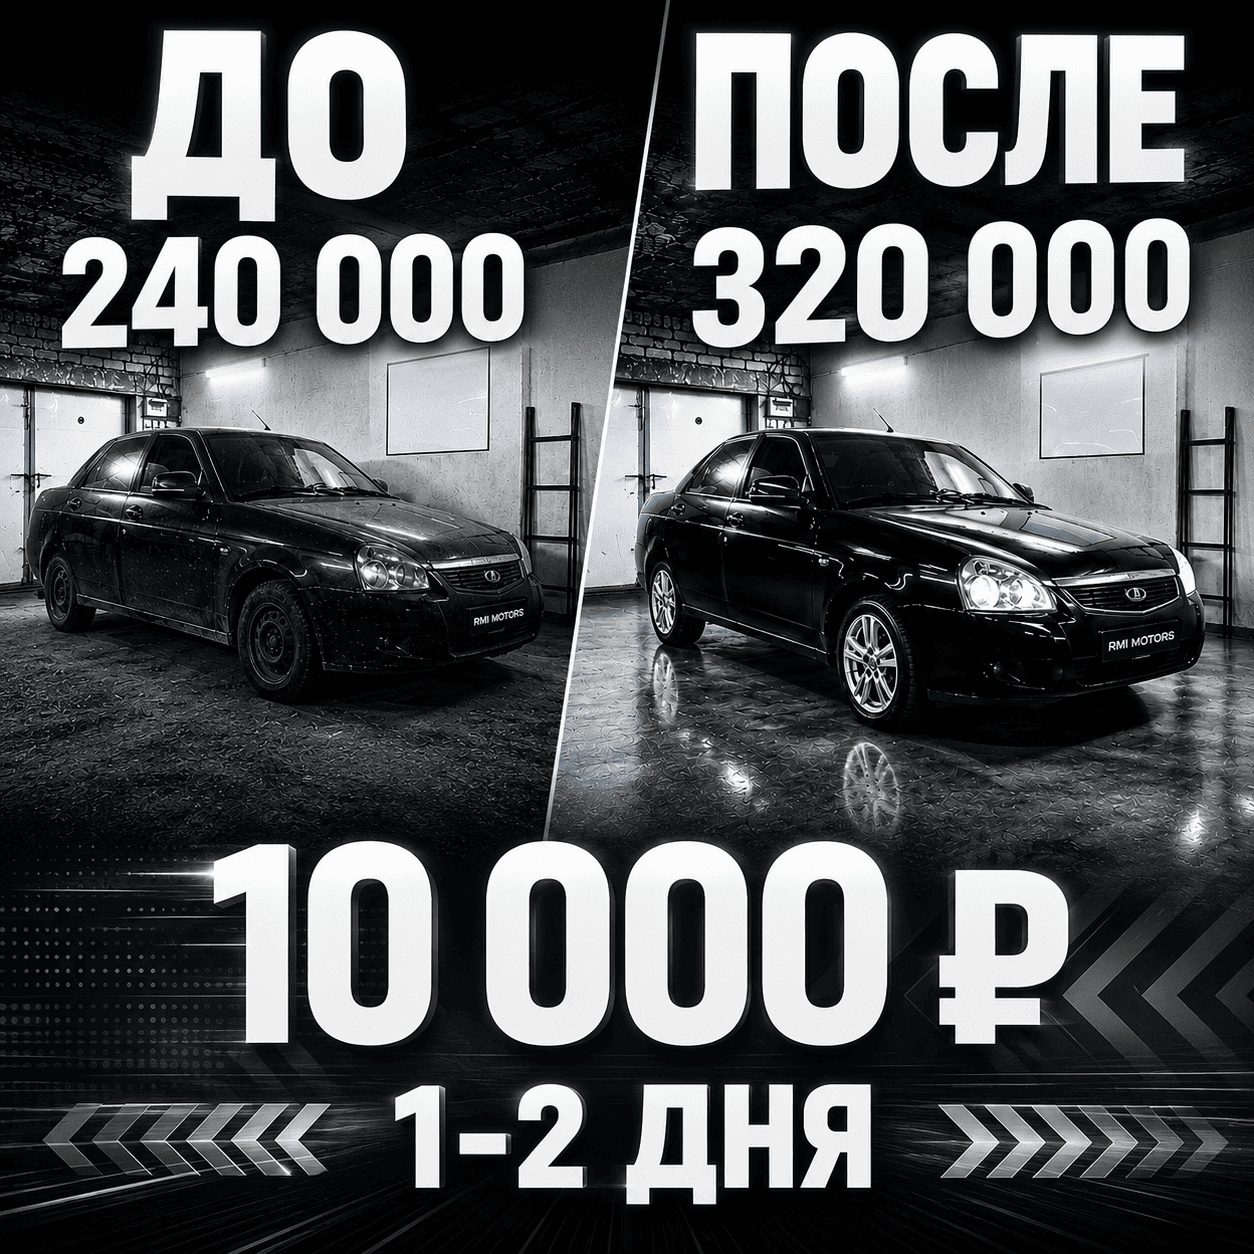
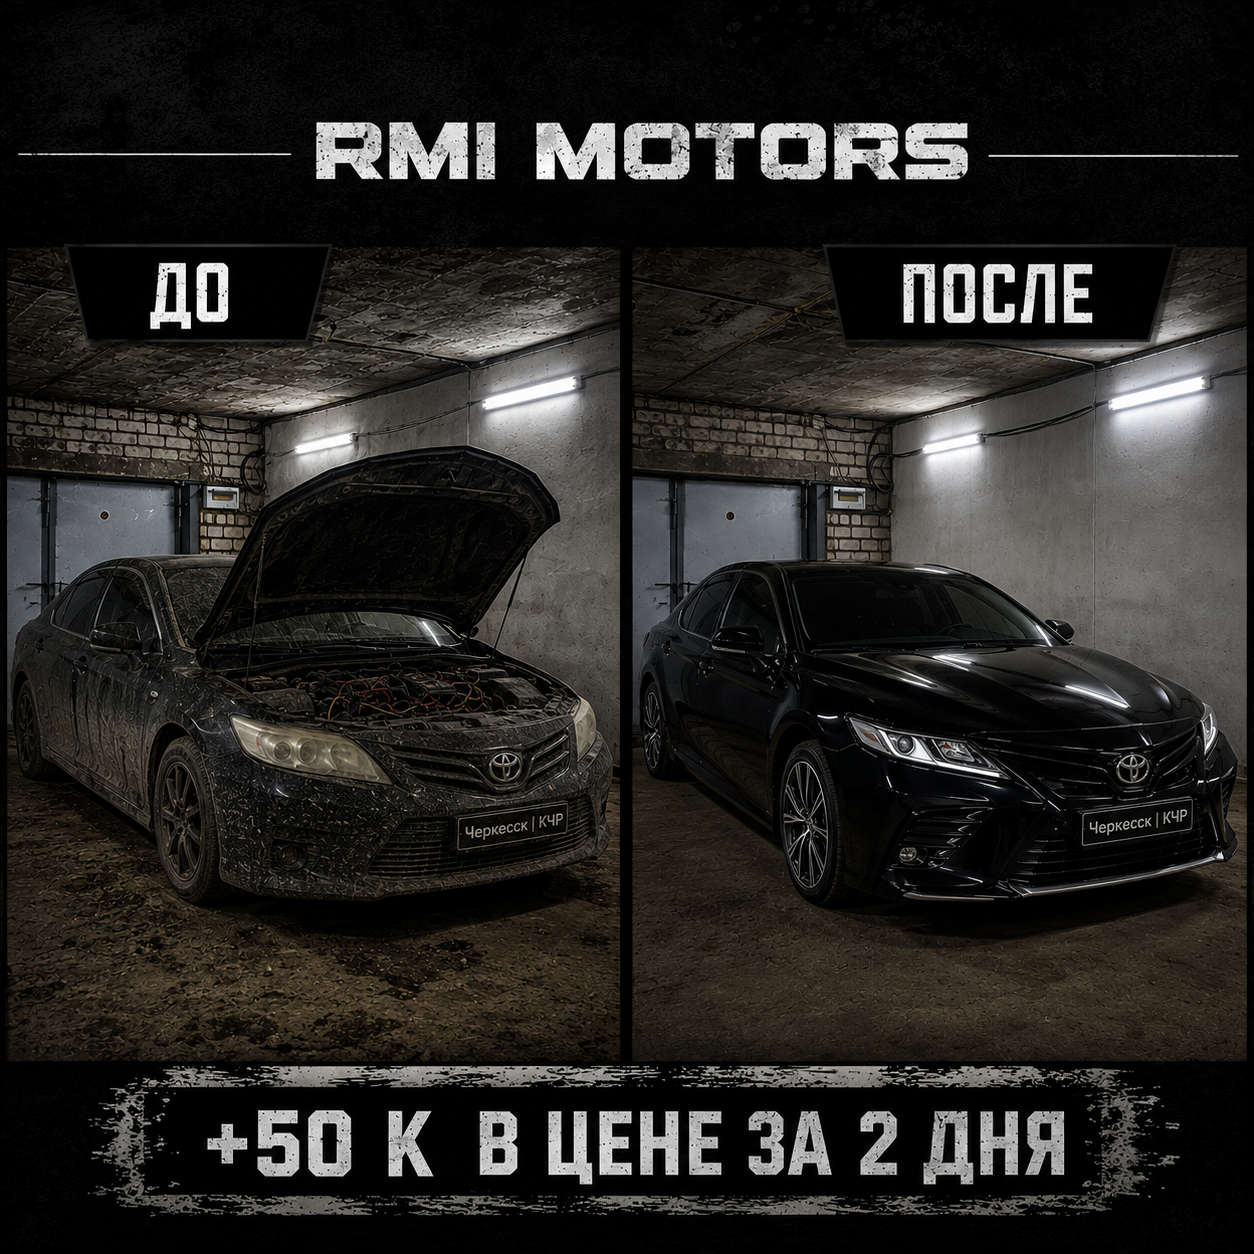
done

diff --git a/index.html b/index.html
@@ -144,6 +144,30 @@
             padding-left: 25px;
         }
 
+        .benefit-icon,
+        .service-icon {
+            display: flex;
+            align-items: center;
+            justify-content: flex-start;
+            width: 68px;
+            height: 68px;
+            margin-bottom: 22px;
+            color: #000;
+        }
+
+        .benefit-icon svg,
+        .service-icon svg {
+            width: 68px;
+            height: 68px;
+            display: block;
+            overflow: visible;
+        }
+
+        .benefit-icon svg *,
+        .service-icon svg * {
+            vector-effect: non-scaling-stroke;
+        }
+
         .benefit-title {
             font-size: 1.8rem;
             font-weight: 600;
@@ -192,11 +216,16 @@
         }
 
         .service-category {
-            border-top: 3px solid #000;
-            padding-top: 20px;
+            border-top: 2px solid #000;
+            padding-top: 24px;
+            display: flex;
+            justify-content: start;
+            align-items: center;
+            flex-direction: column;
         }
 
         .service-category h3 {
+            text-align: center;
             font-size: 1.8rem;
             font-weight: 600;
             margin-bottom: 18px;
@@ -502,7 +531,7 @@
             <br>
 
             <!-- H1 заголовок -->
-            <h1 style="margin-top: 25px;"> За 1–2 дня <br> увеличим стоимость вашего авто <br>для продажи <br><br></h1>
+            <h1 style="margin-top: 25px;"> За 2 дня <br> увеличим стоимость <br> вашего авто для продажи <br><br></h1>
 
             <!-- Подзаголовок -->
             <div class="subhead">
@@ -530,25 +559,52 @@
                 alt="Описание картинки"
             >
 
-            <!-- Список услуг — 4 направления (блоки) -->
+            <!-- Список услуг — 3 направления (блоки) -->
             <div class="services-panel">
                 <div class="service-category">
-                    <h3>Оптика и кузов: полировка фар и удаление сколов</h3>
+                    <div class="service-icon" aria-hidden="true">
+                        <svg viewBox="0 0 64 64" fill="none"
+                             xmlns="http://www.w3.org/2000/svg">
+                            <path d="M7 36L14 24C17 19 23 16 31 16H43L56 27V39H7V36Z"
+                                  stroke="currentColor" stroke-width="2.5"
+                                  stroke-linejoin="round"/>
+                            <path d="M17 35L23 25H42L51 35H17Z"
+                                  stroke="currentColor" stroke-width="2.5"
+                                  stroke-linejoin="round"/>
+                            <path d="M31 7V12M44 11L41 16M53 20L48 22"
+                                  stroke="currentColor" stroke-width="2.5"
+                                  stroke-linecap="round"/>
+                            <path d="M10 45H54"
+                                  stroke="currentColor" stroke-width="2.5"
+                                  stroke-linecap="round"/>
+                        </svg>
+                    </div>
+                    <h3>Полировка фар и удаление сколов</h3>
                     <ul class="service-list">
                         <li>Полировка фар Черкесск: убираем «катаракту», мутность и улучшаем внешний вид перед продажей</li>
-                        <li>Удаление сколов без покраски и ремонт сколов авто (локально, без полной перекраски детали)</li>
-                        <li>Покраска сколов авто КЧР при необходимости локального подкраса в цвет</li>
+                        <li>Удаление сколов без покраски и локальное замазывание сколов</li>
                     </ul>
                 </div>
                 <div class="service-category">
-                    <h3>Детейлинг авто и химчистка салона в Черкесске</h3>
-                    <ul class="service-list">
-                        <li>Химчистка салона Черкесск: глубокая очистка сидений, потолка, пола и багажника</li>
-                        <li>Детейлинг авто: прочистка системы вентиляции салона и химическая очистка воздуховодов</li>
-                        <li>Освежение салона и устранение скрипов пластика для аккуратной продажи автомобиля</li>
-                    </ul>
-                </div>
-                <div class="service-category">
+                    <div class="service-icon" aria-hidden="true">
+                        <svg viewBox="0 0 64 64" fill="none"
+                             xmlns="http://www.w3.org/2000/svg">
+                            <path d="M12 40L16 25C17 21 20 18 25 18H39C44 18 47 21 48 25L52 40V48H12V40Z"
+                                  stroke="currentColor" stroke-width="2.5"
+                                  stroke-linejoin="round"/>
+                            <path d="M17 36H47M20 26H44"
+                                  stroke="currentColor" stroke-width="2.5"
+                                  stroke-linecap="round"/>
+                            <path d="M12 40H7V45H12M52 40H57V45H52"
+                                  stroke="currentColor" stroke-width="2.5"
+                                  stroke-linejoin="round"/>
+                            <circle cx="20" cy="43" r="2" fill="currentColor"/>
+                            <circle cx="44" cy="43" r="2" fill="currentColor"/>
+                            <path d="M27 11L31 15L39 7"
+                                  stroke="currentColor" stroke-width="2.5"
+                                  stroke-linecap="round" stroke-linejoin="round"/>
+                        </svg>
+                    </div>
                     <h3>Предпродажная подготовка автомобиля в Черкесске</h3>
                     <ul class="service-list">
                         <li>Подготовка авто к продаже в Черкесске: подкапотная эстетика, штатная гофра, аккуратная проводка и клипсы</li>
@@ -557,40 +613,99 @@
                     </ul>
                 </div>
                 <div class="service-category">
+                    <div class="service-icon" aria-hidden="true">
+                        <svg viewBox="0 0 64 64" fill="none"
+                             xmlns="http://www.w3.org/2000/svg">
+                            <path d="M39 10C45 7 52 10 54 16L44 26L38 20L28 30L34 36L44 26L54 36L34 56L24 46L34 36"
+                                  stroke="currentColor" stroke-width="2.5"
+                                  stroke-linecap="round" stroke-linejoin="round"/>
+                            <path d="M24 46L14 56"
+                                  stroke="currentColor" stroke-width="2.5"
+                                  stroke-linecap="round"/>
+                            <path d="M10 12L20 22M20 12L10 22"
+                                  stroke="currentColor" stroke-width="2.5"
+                                  stroke-linecap="round"/>
+                        </svg>
+                    </div>
                     <h3>Мелкий ремонт перед продажей</h3>
                     <ul class="service-list">
                         <li>Протяжка креплений, устранение люфтов и мелких замечаний по кузову и салону</li>
                         <li>Локальная подварка (точечно, где это критично для осмотра и безопасной эксплуатации)</li>
-                        <li>Комплексная предпродажная подготовка автомобиля и подготовка авто к продаже за 1-2 дня</li>
                     </ul>
                 </div>
             </div>
 
             <!-- Блок с комплексной ценой (белый на чёрном) -->
             <div style="background: #000; color: #fff; padding: 50px 40px; margin: 30px 0; text-align: center; width: 100%;">
-                <div style="font-size: 1rem; letter-spacing: 5px; text-transform: uppercase; margin-bottom: 20px; color: rgba(255,255,255,0.7);">комплекс от</div>
-                <div style="font-size: 4rem; font-weight: 700; line-height: 1; letter-spacing: -3px; margin-bottom: 25px;">10 000 <span style="font-size: 2rem; font-weight: 300; color: rgba(255,255,255,0.6);">₽</span></div>
-                <div style="font-size: 1.1rem; line-height: 1.8; color: rgba(255,255,255,0.85);">
-                    Мойка кузова | Полировка оптики | Локальное устранение косяков<br>
-                    <span style="font-weight: 600; color: #fff; margin-top: 8px; display: inline-block;">уже включены в стоимость</span>
-                </div>
+                <div style="font-size: 4rem; font-weight: 700; line-height: 1; letter-spacing: -3px; margin-bottom: 25px;">Преимущества</div>
             </div>
 
             <!-- Блок «Почему мы?» — 4 причины, крупно -->
             <div class="benefits-grid">
                 <div class="benefit-card">
+                    <div class="benefit-icon" aria-hidden="true">
+                        <svg viewBox="0 0 64 64" fill="none"
+                             xmlns="http://www.w3.org/2000/svg">
+                            <circle cx="32" cy="32" r="23"
+                                    stroke="currentColor" stroke-width="2.5"/>
+                            <path d="M32 16V32L44 39"
+                                  stroke="currentColor" stroke-width="3"
+                                  stroke-linecap="square" stroke-linejoin="round"/>
+                            <path d="M32 5V9M59 32H55"
+                                  stroke="currentColor" stroke-width="2.5"
+                                  stroke-linecap="round"/>
+                        </svg>
+                    </div>
                     <div class="benefit-title">Экономия нервов<br>и времени</div>
-                    <div class="benefit-desc">Забудьте про логистику «мойка-полировка-электрик-химчистка». Весь комплекс работ выполняется в одном боксе за 1-2 дня с внимательным отношением к деталям.</div>
+                    <div class="benefit-desc">Забудьте про логистику «мойка-полировка-электрик-химчистка». Весь комплекс работ выполняется за 1-2 дня с внимательным отношением к деталям.</div>
                 </div>
                 <div class="benefit-card">
-                    <div class="benefit-title">Оптовая стоимость<br>комплекса</div>
-                    <div class="benefit-desc">Отдельно химчистка салона стоит от 10 000 ₽. У нас комплекс начинается всего от 10 000 ₽ (Мойка + Полировка оптики + Локальное устранение косяков включены в стоимость).</div>
+                    <div class="benefit-icon" aria-hidden="true">
+                        <svg viewBox="0 0 64 64" fill="none"
+                             xmlns="http://www.w3.org/2000/svg">
+                            <path d="M32 7L37 24L54 29L37 34L32 51L27 34L10 29L27 24L32 7Z"
+                                  stroke="currentColor" stroke-width="2.5"
+                                  stroke-linejoin="round"/>
+                            <path d="M49 43L51 49L57 51L51 53L49 59L47 53L41 51L47 49L49 43Z"
+                                  stroke="currentColor" stroke-width="2"
+                                  stroke-linejoin="round"/>
+                        </svg>
+                    </div>
+                    <div class="benefit-title">Эффект обслуженного <br>автомобиля</div>
+                    <div class="benefit-desc">Создаём ощущение, что за машиной ухаживали и обращались с ней бережно: ухоженный вид, отсутствие мелких недочётов — покупатель видит заботу в каждой детали и проникается доверием.</div>
                 </div>
                 <div class="benefit-card">
+                    <div class="benefit-icon" aria-hidden="true">
+                        <svg viewBox="0 0 64 64" fill="none"
+                             xmlns="http://www.w3.org/2000/svg">
+                            <path d="M12 56V8"
+                                  stroke="currentColor" stroke-width="2.5"
+                                  stroke-linecap="square"/>
+                            <path d="M13 11H49L40 22L49 33H13"
+                                  stroke="currentColor" stroke-width="2.5"
+                                  stroke-linejoin="round"/>
+                            <path d="M24 18L36 28M36 18L24 28"
+                                  stroke="currentColor" stroke-width="2.5"
+                                  stroke-linecap="round"/>
+                        </svg>
+                    </div>
                     <div class="benefit-title">Убираем <br>«красные флаги»</div>
                     <div class="benefit-desc">Устраняем именно то, на что покупатель смотрит в первую очередь: мутные фары, сколы, сопли изоленты под капотом, скрипящий салон.</div>
                 </div>
                 <div class="benefit-card">
+                    <div class="benefit-icon" aria-hidden="true">
+                        <svg viewBox="0 0 64 64" fill="none"
+                             xmlns="http://www.w3.org/2000/svg">
+                            <path d="M12 10H52V54H12V10Z"
+                                  stroke="currentColor" stroke-width="2.5"/>
+                            <path d="M21 22H43M21 32H43M21 42H34"
+                                  stroke="currentColor" stroke-width="2.5"
+                                  stroke-linecap="square"/>
+                            <path d="M39 42L43 46L51 37"
+                                  stroke="currentColor" stroke-width="2.5"
+                                  stroke-linecap="round" stroke-linejoin="round"/>
+                        </svg>
+                    </div>
                     <div class="benefit-title">Фиксированная цена<br>и только необходимые работы</div>
                     <div class="benefit-desc">Цена не вырастет после первичного осмотра и дефектовки — никаких «ой, тут сложный случай». Платите ровно столько, сколько обговорили.</div>
                 </div>
